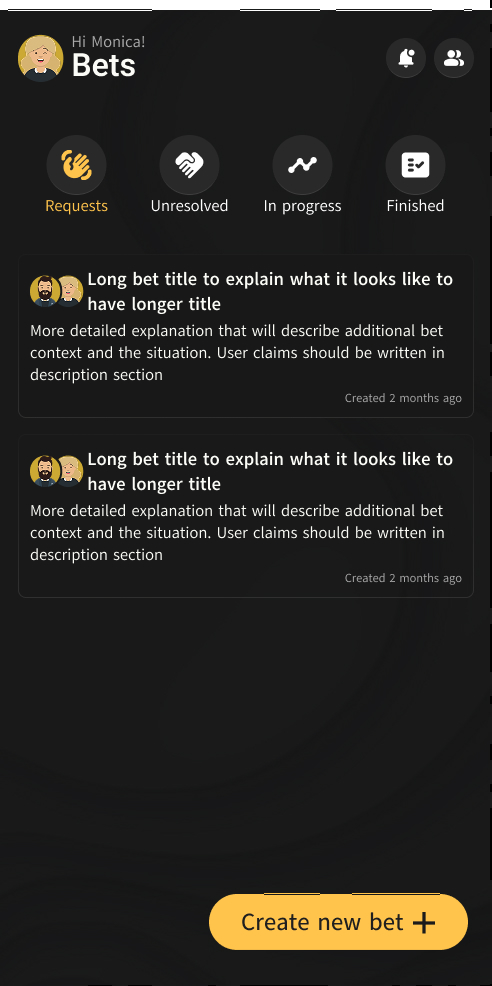
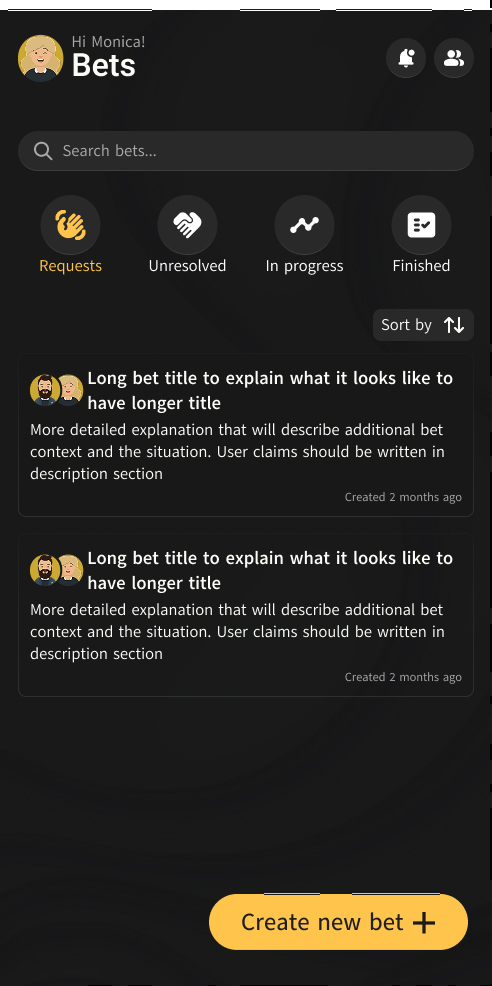
Update designs and project tech badges

diff --git a/readme.md b/readme.md
@@ -3,9 +3,28 @@
 
 ![](./documents/BetKeeper_Logo.png)
 
-[![Biome on board!](https://img.shields.io/badge/Formatted_with-Biome-60a5fa?style=flat&logo=biome)](https://biomejs.dev/)
 
-[![codecov](https://codecov.io/gh/radek2s/BetKeeper/branch/main/graph/badge.svg?token=VVZYBJRPUU)](https://codecov.io/gh/radek2s/BetKeeper)
+
+![Static Badge](https://img.shields.io/badge/Next.js-%23262c36.svg?style=for-the-badge&logo=nextdotjs&logoColor=white)
+![Static Badge](https://img.shields.io/badge/Prisma-%23262c36.svg?style=for-the-badge&logo=prisma&logoColor=white)
+![Static Badge](https://img.shields.io/badge/TypeScript-%23262c36.svg?style=for-the-badge&logo=typescript&logoColor=white)
+![Static Badge](https://img.shields.io/badge/Tailwind-%23262c36.svg?style=for-the-badge&logo=tailwindcss&logoColor=white)
+![Static Badge](https://img.shields.io/badge/Biome-%23262c36.svg?style=for-the-badge&logo=biome&logoColor=white)
+![Static Badge](https://img.shields.io/badge/Figma-%23262c36.svg?style=for-the-badge&logo=figma&logoColor=white)
+![Static Badge](https://img.shields.io/badge/Vercel-%23262c36.svg?style=for-the-badge&logo=vercel&logoColor=white)
+![Static Badge](https://img.shields.io/badge/Supabase-%23262c36.svg?style=for-the-badge&logo=supabase&logoColor=white)
+![Static Badge](https://img.shields.io/badge/Nx-%23262c36.svg?style=for-the-badge&logo=nx&logoColor=white)
+![Static Badge](https://img.shields.io/badge/Vite-%23262c36.svg?style=for-the-badge&logo=vite&logoColor=white)
+![Static Badge](https://img.shields.io/badge/Vitest-%23262c36.svg?style=for-the-badge&logo=vitest&logoColor=white)
+![Static Badge](https://img.shields.io/badge/Cucumber-%23262c36.svg?style=for-the-badge&logo=cucumber&logoColor=white)
+![Static Badge](https://img.shields.io/badge/Cypress-%23262c36.svg?style=for-the-badge&logo=cypress&logoColor=white)
+![Static Badge](https://img.shields.io/badge/Pino.js-%23262c36.svg?style=for-the-badge&logo=pino&logoColor=white)
+![Static Badge](https://img.shields.io/badge/RadixUI-%23262c36.svg?style=for-the-badge&logo=radixui&logoColor=white)
+![Static Badge](https://img.shields.io/badge/TanStack%20Query-%23262c36.svg?style=for-the-badge&logo=tanstack&logoColor=white)
+
+
+
+
 
 # 🏗 Project under construction...
 
@@ -36,6 +55,9 @@ During implementation, I will build each module of the application using good so
 - [Project plan](https://github.com/users/radek2s/projects/1)
 
 #### Verification Phase
+
+[![codecov](https://codecov.io/gh/radek2s/BetKeeper/branch/main/graph/badge.svg?token=VVZYBJRPUU)](https://codecov.io/gh/radek2s/BetKeeper)
+
 All parts of the application will be verified using unit tests and end‑to‑end tests. This will ensure that the system works correctly and meets the defined requirements. 
 
 - [Tests reports](https://github.com/radek2s/BetKeeper/actions/workflows/dev-branch-health.yml)

diff --git a/documents/05_app_designs/readme.md b/documents/05_app_designs/readme.md
@@ -5,6 +5,9 @@ In this folder there are design graphics that helps to visualize BetKeeper Inter
 
 ![image](./dark/00%20-%20Main%20Page.jpg)
 
+Search when clicking on search input
+![image](./dark/00-01%20-%20Search.jpg)
+
 ### Bet Request Creation
 
 ![image](./dark/01%20-%20Create%20Bet.jpg)
